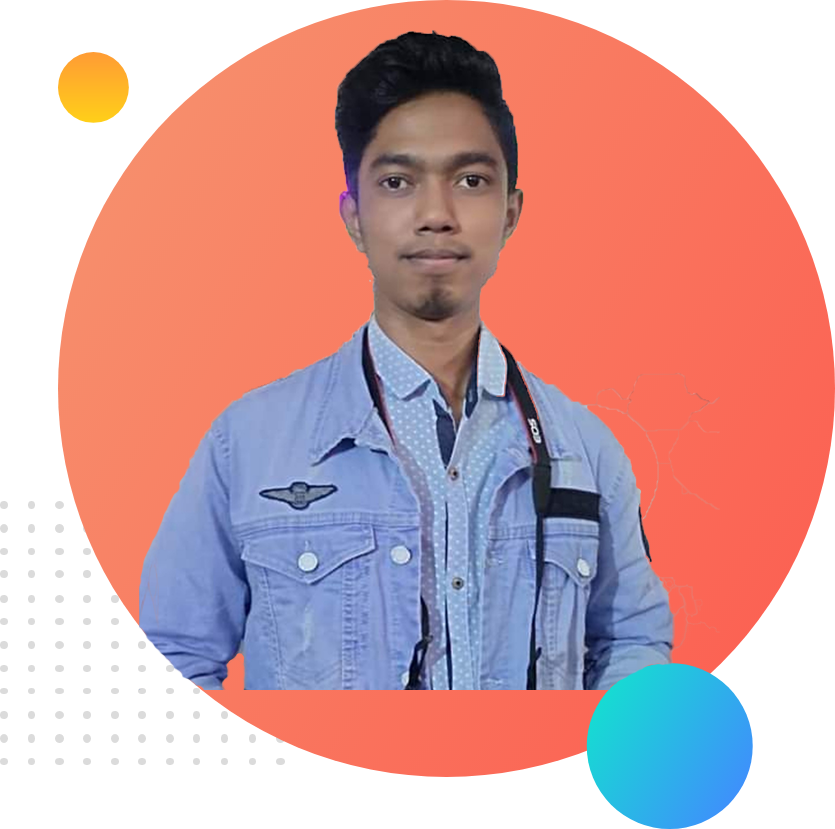
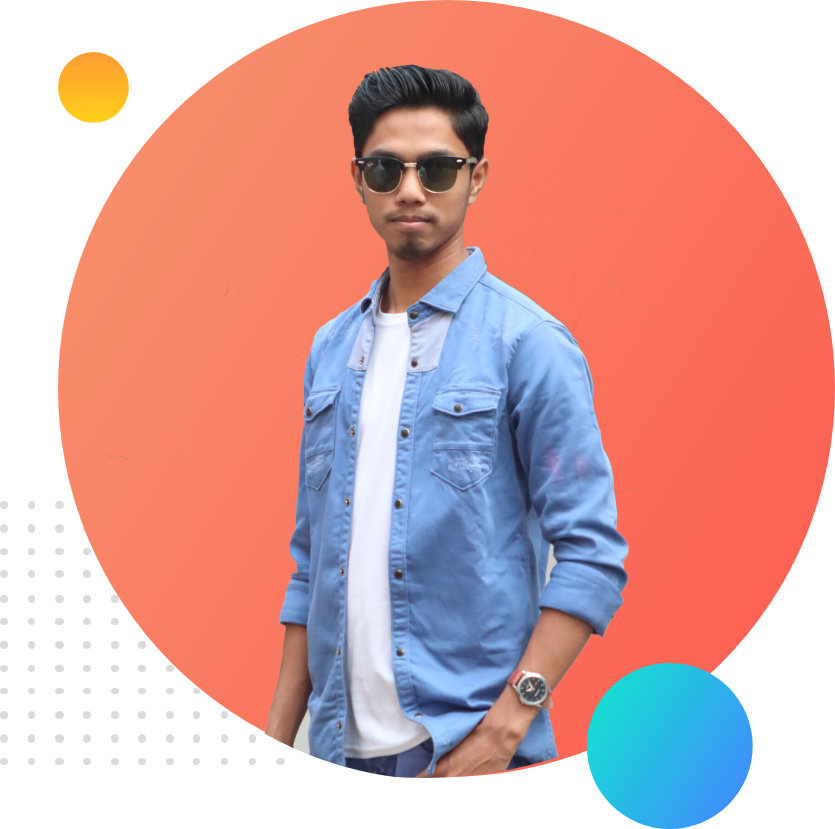
st

diff --git a/index.html b/index.html
@@ -12,10 +12,50 @@
     <link rel="stylesheet" href="css/style.css">
 </head>
 <body>
-    <h1>Welcome to</h1>
-    <h1><span class="name">ST Portfolio</span> Website</h1>
-    <h3>Build Climber and Train Stopper</h3>
-    <p>You might saw me jumping, climbing buildings, and stopping trains. But nobody pays me a dime for that work. That's why I am learning and mastering web development. I will not stop until I become the Web Development Hero.</p>
-    <button><a href="#">Hire Me</a></button>
+<section id="banner">
+    <div class="half-width">
+        <h1>Welcome to</h1>
+        <h1><span class="name">ST Portfolio</span> Website</h1>
+        <h3>Build Climber and Train Stopper</h3>
+        <p>You might saw me jumping, climbing buildings, and stopping trains. But nobody pays me a dime for that work. That's why I am learning and mastering web development. I will not stop until I become the Web Development Hero.</p>
+        <a href="https://www.fiverr.com/shehab_web1" target="_blank" class="btn">HIRE ME</a>
+    </div>
+    <div class="half-width">
+        <img src="images/st.png" alt="">
+    </div>
+</section>
+
+<section id="dream">
+    <div class="half-width">
+        <img src="images/st1.png" alt="">
+    </div>
+
+    <div class="half-width">
+        <h2>Dream Big</h2>
+
+        <h3>Become a web developer</h3>
+        <p>I already learned the basic HTML and CSS. I can build any simple website. I can even teach my grandma how to make simple website. My goal is to build 3 websites and learn advanced topics.</p>
+        <a href="https://www.fiverr.com/shehab_web1" target="_blank" class="btn">DOWNLOAD RESUME</a>
+    </div>    
+</section>
+
+<section id="experince">
+    <h2>Experiences</h2>
+    <div id="border-pro" class="half-width single">
+        <h2>Full Stack Web Developer</h2>
+        <h3 class="name">2021-Present | Pro Level Developer</h3>
+        <p>I am the master of HTML, CSS and Javascript. I know everything needed to make a website function, efficient. I didn't stop with the web. I went beyond with most popular Javascript framework called Vue JS. I even know the deployment, server and security. I will give you 100% web solution.</p>
+    </div>
+    <div id="border-baby" class="half-width single">
+        <h2>Baby Web Developer</h2>
+        <h3 class="name">2020-2021 | Programming Hero Learner</h3>
+        <p>They didn't offer me a job. But I made myself as a remove web developer. I made their website and showed it to them. They liked it. And uploaded the content. It was fun working at Programming Hero.</p>
+    </div>
+</section>
+
+<footer>
+    <p>© Shehab Hossen 2021, a Shehab Thuhid initiative.</p>
+</footer>
+
 </body>
 </html>

diff --git a/css/style.css b/css/style.css
@@ -1,4 +1,5 @@
 body{
+    margin: 0;
     font-family: 'Poppins', sans-serif;
 }
 
@@ -6,6 +7,98 @@ h1{
     font-size: 50px;
 }
 
+h2 {
+    font-size: 40px;
+}
+
+p{
+    color: dimgray;
+}
+
 .name{
     color: orange;
+}
+
+.half-width{
+    width: 40%;
+    float: left;    
+    padding-left: 2%;
+    margin-left: 5%;
+}
+
+.half-width img{
+    width: 100%;    
+}
+
+#banner{
+    background-image: url(../images/top-banner.png);
+    background-repeat: no-repeat;
+}
+
+section{
+    height: 500px;
+    padding-bottom: 150px;
+}
+a, a:hover{
+    text-decoration: none;
+}
+.btn{
+    color: white;
+    padding: 10px 40px;
+    background: linear-gradient(45deg, lightsalmon, tomato);
+    border-radius: 5px;
+    font-weight: 700;
+}
+
+.btn:hover{
+    background: linear-gradient(45deg, red, green);
+}
+
+#dream{
+    background: url(../images/dream-bg.png);
+    background-repeat: no-repeat;
+    background-position: right;
+}
+
+#experince{
+    background: url(../images/exp-bg.png);
+    background-repeat: no-repeat;
+    background-position: left;
+}
+.single{
+    box-shadow: 10px 10px 40px gray;
+    border-radius: 5px;
+    height: 80%;
+}
+
+#border-pro{
+    border-left: 7px solid;
+    border-image: linear-gradient(180deg, lightsalmon, tomato);
+    border-image-slice: 1;
+}
+#border-baby{
+    border-left: 7px solid;
+    border-image: linear-gradient(180deg, blue, cyan);
+    border-image-slice: 1;
+}
+
+footer p{
+    text-align: center;
+}
+
+
+
+
+
+
+
+
+
+
+
+@media (max-width: 600px){
+    .half-width{
+        width: 100%;
+        margin-bottom: 120px;
+    }
 }
